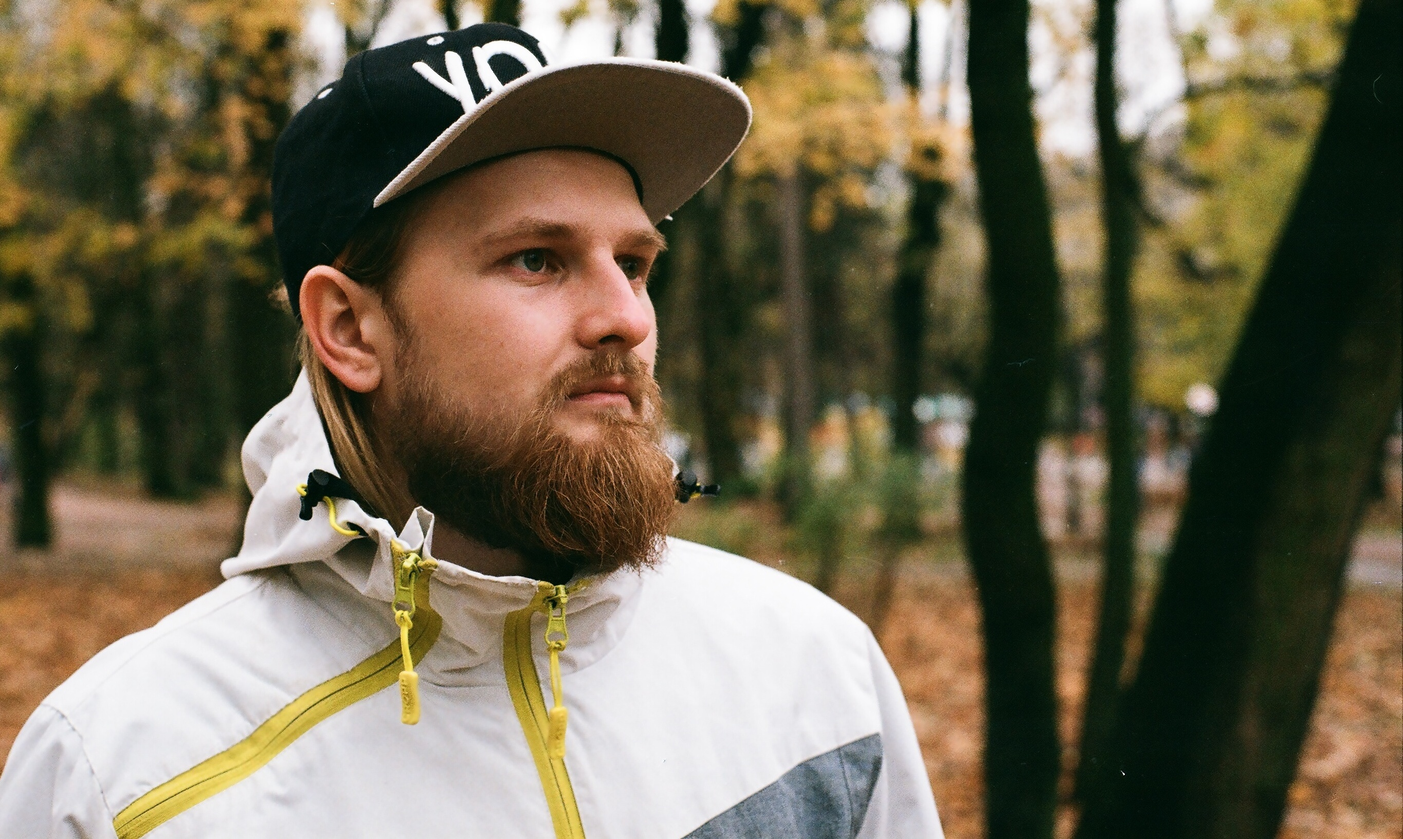
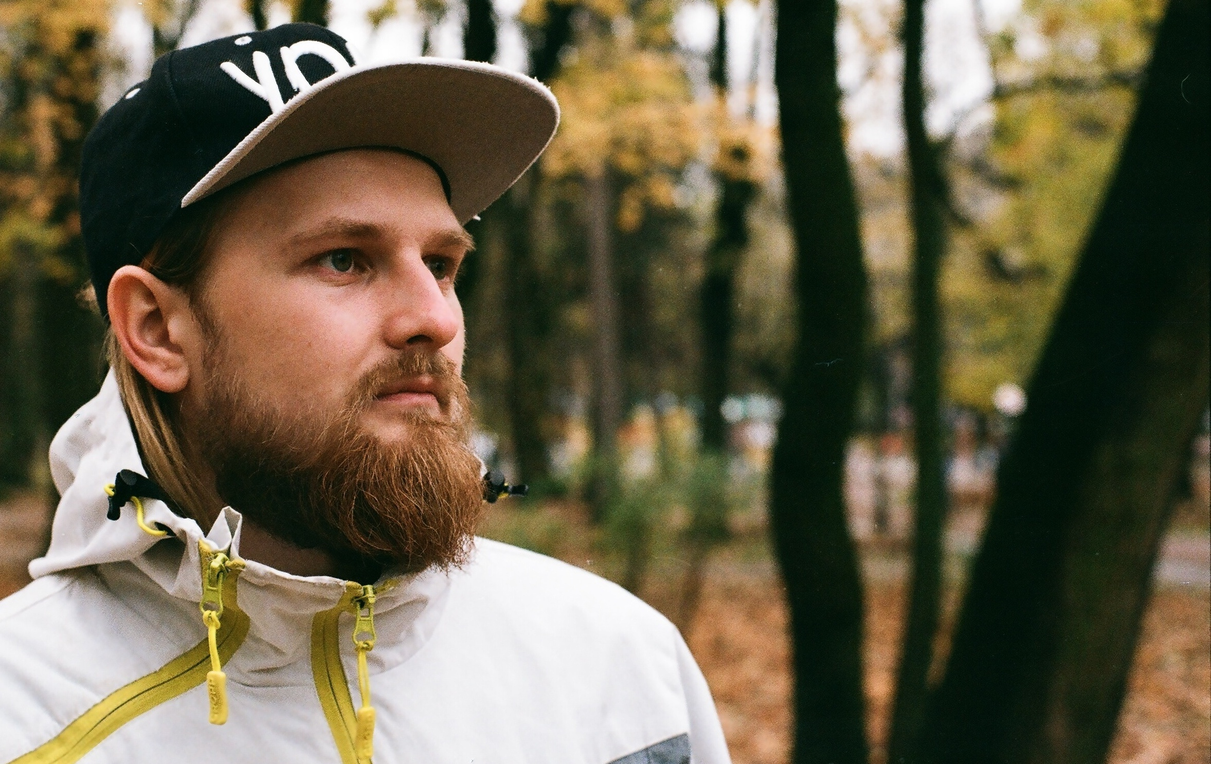
responsive

diff --git a/css/about.css b/css/about.css
@@ -1,15 +1,38 @@
 .content {
   background-image: url("../images/perun.JPG");
+  background-position: left;
   background-size: cover;
   height: 562px; }
-  .content p {
-    padding: 10px;
-    font-size: 25px;
-    background-color: rgba(255, 255, 255, 0.5);
-    border-radius: 10%;
-    display: inline-block;
-    text-align: center;
-    float: right;
-    position: relative;
-    top: 150px;
-    right: 15px; }
+  .content .about {
+    padding: 35px 15px;
+    display: -webkit-box;
+    display: -ms-flexbox;
+    display: flex;
+    -webkit-box-pack: end;
+    -ms-flex-pack: end;
+    justify-content: flex-end; }
+    @media (max-width: 831px) {
+      .content .about {
+        padding-top: 55px; } }
+    @media (max-width: 663px) {
+      .content .about {
+        display: block;
+        position: absolute;
+        bottom: 5px;
+        width: 100%; } }
+    .content .about p {
+      padding: 10px;
+      font-size: 20px;
+      background-color: rgba(255, 255, 255, 0.5);
+      border-radius: 10%;
+      text-align: center;
+      width: 40%; }
+      @media (max-width: 831px) {
+        .content .about p {
+          font-size: 17px; } }
+      @media (max-width: 663px) {
+        .content .about p {
+          margin: 0 auto;
+          padding: 2px;
+          width: 80%;
+          font-size: 15px; } }

diff --git a/css/services.css b/css/services.css
@@ -3,11 +3,18 @@ p {
   text-align: left;
   padding: 40px 70px 10px;
   color: black; }
+  @media (max-width: 831px) {
+    p {
+      text-align: center; } }
 
 .service-list {
   background-image: url("/images/servicesbg.jpg");
   background-size: cover;
   height: 562px; }
+  @media (max-width: 831px) {
+    .service-list {
+      background-position: center;
+      height: auto; } }
 
 .lists {
   display: -webkit-box;
@@ -22,9 +29,19 @@ p {
     list-style-type: none;
     background-color: rgba(255, 255, 255, 0.8);
     border-radius: 10%; }
+    @media (max-width: 831px) {
+      .lists ul {
+        width: 80%;
+        margin: 10px auto; } }
     .lists ul li {
       text-align: center;
       line-height: 40px;
       border-bottom: 1px solid #254d00; }
       .lists ul li img {
         padding-right: 5px; }
+  @media (max-width: 831px) {
+    .lists {
+      -webkit-box-orient: vertical;
+      -webkit-box-direction: normal;
+      -ms-flex-direction: column;
+      flex-direction: column; } }

diff --git a/scss/about.scss b/scss/about.scss
@@ -1,17 +1,41 @@
+@import"variables";
+@import "mixins";
+
 .content {
   background-image: url('../images/perun.JPG');
+  background-position: left;
   background-size: cover;
   height: 562px;
+  .about {
+    padding: 35px 15px;
+    display: flex;
+    justify-content: flex-end;
+    @include md {
+      padding-top: 55px;
+    }
+      @include sm {
+      display: block;
+      position: absolute;
+      bottom: 5px;
+      width: 100%;
+    }
+
   p {
     padding: 10px;
-    font-size: 25px;
+    font-size: 20px;
     background-color: rgba(255, 255, 255, .5);
     border-radius: 10%;
-    display: inline-block;
     text-align: center;
-    float: right;
-    position: relative;
-    top: 150px;
-    right: 15px;
+    width: 40%;
+    @include md {
+      font-size: 17px;
+    }
+    @include sm {
+      margin: 0 auto;
+      padding: 2px;
+      width: 80%;
+      font-size: 15px;
+    }
   }
+}
 }

diff --git a/scss/services.scss b/scss/services.scss
@@ -1,14 +1,24 @@
+@import"variables";
+@import "mixins";
+
 p {
   font-size: 35px;
   text-align: left;
   padding: 40px 70px 10px;
   color: rgb(0, 0, 0);
+  @include md {
+    text-align: center;
+  }
 }
 
 .service-list {
   background-image: url('/images/servicesbg.jpg');
   background-size: cover;
   height: 562px;
+  @include md {
+    background-position: center;
+    height: auto;
+  }
 }
 .lists {
   display: flex;
@@ -20,6 +30,10 @@ p {
     list-style-type: none;
     background-color: rgba(255, 255, 255, .8);
     border-radius: 10%;
+    @include md {
+      width: 80%;
+      margin: 10px auto;
+    }
     li {
       text-align: center;
       line-height: 40px;
@@ -28,5 +42,8 @@ p {
         padding-right: 5px;
       }
     }
+  }
+  @include md {
+    flex-direction: column;
   }
 }

diff --git a/view/about.html b/view/about.html
@@ -9,11 +9,12 @@
 </head>
 <body>
   <div class="content">
+    <div class="about">
     <p>Hi, my name is Arthur Perun, I'm photographer. <br/>Nature and faces my main photo passion.<br/>
       The photos I take are unusual, creative,<br/> they infect with their calmness, peace.<br/>
-      Each frame is filled with love, originality and unusual ... <br/>
       It is difficult to describe in words,<br/> you can only feel it on yourself.<br/>
       So start to view. Enjoy and feel each frame,<br/> pass it through yourself.</p>
+    </div>
   </div>
 </body>
 </html>

diff --git a/css/gallery.css b/css/gallery.css
@@ -14,3 +14,15 @@
       cursor: pointer; }
       .row .column img:hover {
         opacity: 0.7; }
+    @media (max-width: 831px) {
+      .row .column {
+        -webkit-box-flex: 50%;
+        -ms-flex: 50%;
+        flex: 50%;
+        max-width: 50%; } }
+    @media (max-width: 663px) {
+      .row .column {
+        -webkit-box-flex: 100%;
+        -ms-flex: 100%;
+        flex: 100%;
+        max-width: 100%; } }

diff --git a/scss/contacts.scss b/scss/contacts.scss
@@ -1,3 +1,6 @@
+@import"variables";
+@import "mixins";
+
 .contacts_content {
   background-image: url('../images/servicesbg.JPG');
   background-size: cover;
@@ -9,6 +12,14 @@
   text-align: left;
   padding: 20px 280px;
   font-size: 35px;
+  @include md {
+    text-align: center;
+    padding: 15px 100px;
+  }
+  @include sm {
+    text-align: center;
+    padding: 15px 100px;
+  }
 }
 
 #form {

diff --git a/scss/gallery.scss b/scss/gallery.scss
@@ -1,3 +1,6 @@
+@import"variables";
+@import "mixins";
+
 .row {
     display: flex;
     flex-wrap: wrap;
@@ -11,6 +14,14 @@
           &:hover {
             opacity: 0.7;
           }
+        }
+        @include md {
+          flex: 50%;
+          max-width: 50%;
+      }
+        @include sm {
+          flex: 100%;
+          max-width: 100%;
+      }
     }
   }
-}

diff --git a/css/contacts.css b/css/contacts.css
@@ -8,6 +8,14 @@
   text-align: left;
   padding: 20px 280px;
   font-size: 35px; }
+  @media (max-width: 831px) {
+    .contact_title {
+      text-align: center;
+      padding: 15px 100px; } }
+  @media (max-width: 663px) {
+    .contact_title {
+      text-align: center;
+      padding: 15px 100px; } }
 
 #form {
   background-color: rgba(0, 0, 0, 0.2);

diff --git a/scss/mixins.scss b/scss/mixins.scss
@@ -1,0 +1,13 @@
+// Small devices
+@mixin sm {
+   @media (max-width: #{$screen-sm-max}) {
+       @content;
+   }
+}
+
+// Medium devices
+@mixin md {
+   @media (max-width: #{$screen-md-max}) {
+       @content;
+   }
+}

diff --git a/scss/variables.scss b/scss/variables.scss
@@ -1,0 +1,4 @@
+
+$screen-sm-max: 663px;
+
+$screen-md-max: 831px;
